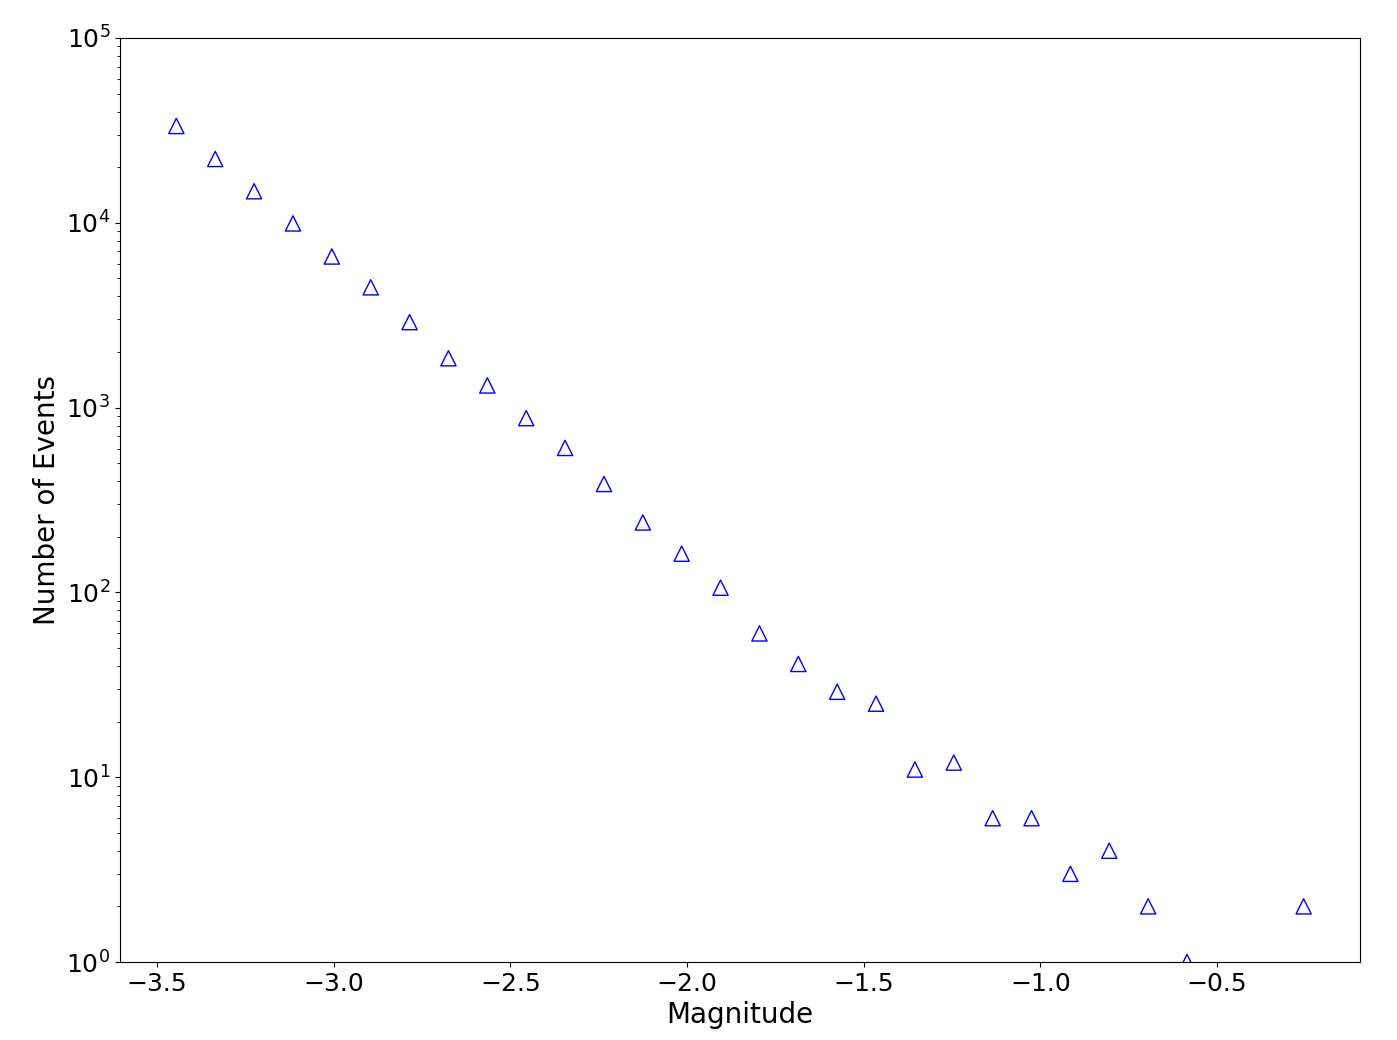
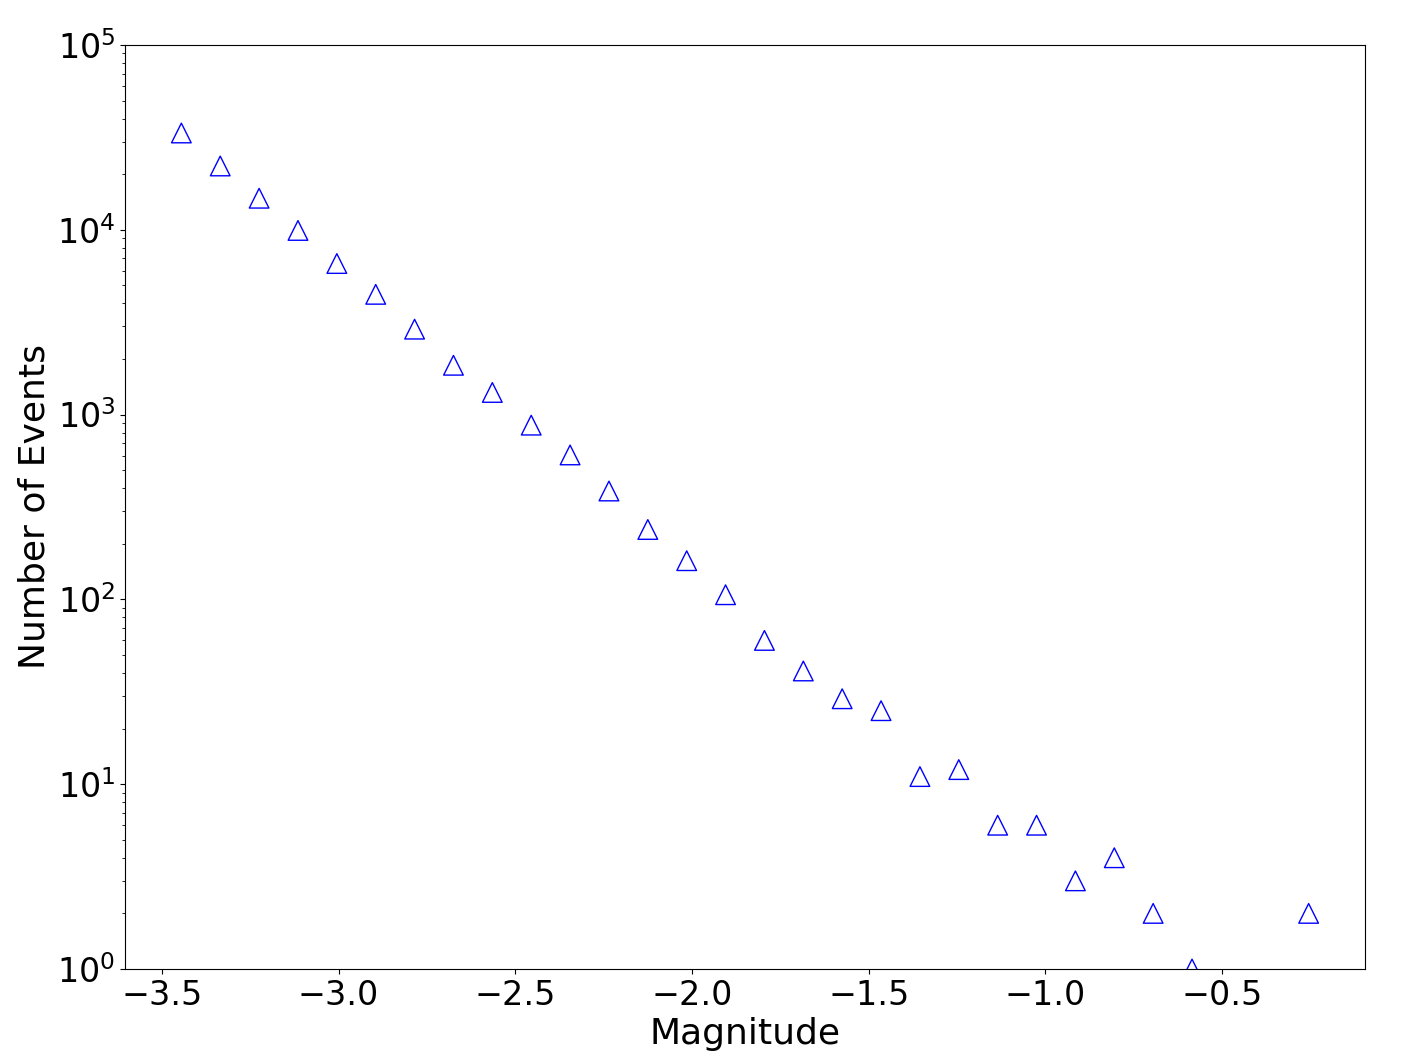
feat: improve plots, add plots for pick datasets

diff --git a/plots.py b/plots.py
@@ -1,4 +1,4 @@
-#
+# %%
 import matplotlib
 import matplotlib.pyplot as plt
 import numpy as np
@@ -11,11 +11,11 @@ from src.synthetics.seismicity_samples_Dieterich94 import (
 
 # matplotlib.use('TkAgg')
 matplotlib.use('Qt5Agg')
-ticksize = 18
-labelsize = 20
-markersize = 120
+ticksize = 24
+labelsize = 26
+markersize = 200
 
-
+# %%
 # FMD Plot
 catalog_fmd = pd.read_csv('plots/data/fmd/catalog_0.csv')
 
@@ -76,10 +76,6 @@ plt.show()
 stations = pd.read_csv('stations/station_cords_blab_VALTER.csv')
 
 stations.rename(columns={'station_code': 'id'}, inplace=True)
-stations.drop(columns=['network_code', 'location_code',
-              'chanel_code'], inplace=True)
-
-stations_coords = stations[['id', 'longitude', 'latitude', 'elevation']]
 stations_enu = stations[['id', 'x', 'y', 'z']]
 
 # Specify reference focal mechanism
@@ -136,3 +132,40 @@ ax.tick_params(axis='z', labelsize=ticksize)
 plt.show()
 
 #
+# %%
+stations = pd.read_csv('stations/station_cords_blab_VALTER.csv')
+stations.rename(columns={'station_code': 'id'}, inplace=True)
+stations = stations[['id', 'x', 'y', 'z']]
+
+arrivals = pd.read_csv(
+    'plots/data/arrivals/arrivals_0.csv', parse_dates=['time'])
+arrivals['time'] = arrivals['time'] - arrivals['time'].min()
+arrivals['time'] = arrivals['time'].dt.microseconds
+
+arrivals = arrivals.join(stations.set_index('id'), on='station')
+
+print(arrivals)
+fig, ax = plt.subplots(figsize=(16, 12))
+plt.xlabel('time [μs]', fontsize=labelsize)
+plt.ylabel('Station y-coordinate [m]', fontsize=labelsize)
+plt.xticks(fontsize=ticksize)
+plt.yticks(fontsize=ticksize)
+
+
+def format_func(x, pos):
+    return np.round(x, 2)
+
+
+# Apply the formatter to the x-axis
+plt.gca().xaxis.set_major_formatter(FuncFormatter(format_func))
+
+colors = ['blue', 'green', 'red', 'purple', 'orange',
+          'brown', 'pink', 'gray', 'olive', 'black']
+for group, df in arrivals.groupby('event'):
+    ax.scatter(df['time'], df['y'], marker='o',
+               color=colors[group], s=markersize)
+
+fig.show()
+
+
+# %%
